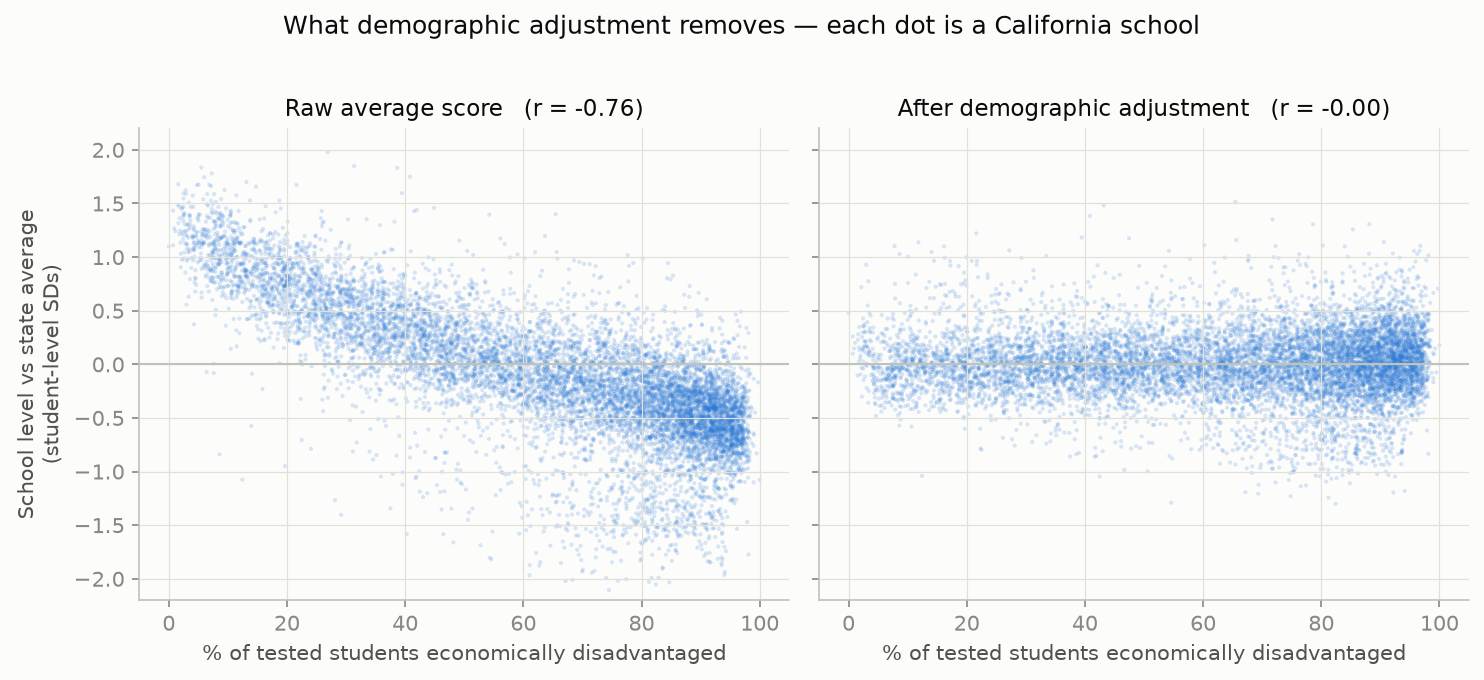
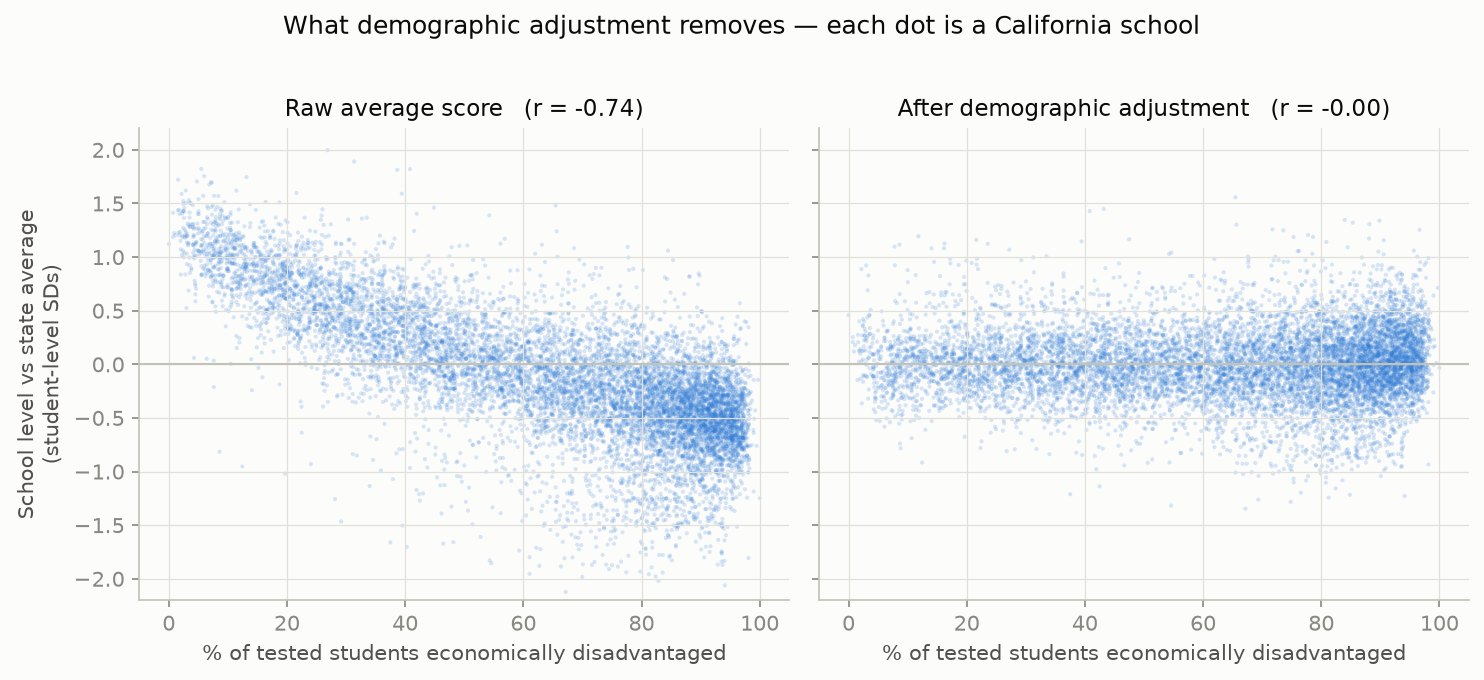
Model: recency-weighted level, rank by lower confidence bound
Level now answers "where is this school now": stage-1 precision weights
decay with a 1.5-year half-life from the school's latest data year
(chosen by holdout — RMSE predicting held-out 2025 means: 0.200
decade-average, 0.168 trend extrapolation, 0.147-0.156 recency-weighted,
0.143 last-year-only). Growth and trend keep the full window.

Percentiles rank the lower bound of the 95% band around the shrunken
adjusted estimate (posterior sd sqrt(lam*V)) and require test data in
the statewide latest year. Lookalike neighbor pool widened to 12 so
pages can show similar schools scoring above and below.

Changed region(s): [[0.093, 0.2779, 0.527, 0.8647], [0.558, 0.3706, 0.9919, 0.7103]]

diff --git a/src/schoolfactors/analysis/model.py b/src/schoolfactors/analysis/model.py
@@ -2,10 +2,17 @@
 
 Stage 1 (per school): precision-weighted regression of standardized score on centered
 year, centered grade, and subject, with level-1 variance fixed to the known sampling
-variance (SEDA-style). Yields per-school OLS estimates + sampling variances for:
-    level  — average standing vs the state (in student SDs), at the school's center
+variance (SEDA-style). Two weightings of the same design:
+    level  — RECENT standing vs the state (in student SDs): precision weights decayed
+             by LEVEL_HALF_LIFE_YEARS from the school's latest data year, intercept at
+             the decayed-weight center (≈ the last one-to-two years of data). Chosen
+             over trend extrapolation by holdout: predicting each school's held-out
+             2025 mean, the decade-average level RMSE is 0.200, linear extrapolation
+             0.168, this estimator 0.147-0.156 vs 0.143 for last-year-only — which
+             would drop schools missing the latest year and is pure noise for small n.
     growth — within-cohort grade-to-grade progression relative to the state
     trend  — change across cohorts/years relative to the state
+             (growth and trend keep the undecayed weights: slopes want the full window)
 
 Stage 2: empirical-Bayes shrinkage of each parameter toward the state mean, with
 between-school variance tau^2 estimated by method of moments. Reliability
@@ -13,7 +20,9 @@ lambda = tau^2/(tau^2 + V) gates display (>= 0.70, SEDA's rule).
 
 Stage 3: demographic adjustment — precision-weighted regression of the OLS estimates
 (never the EB ones: shrunken outcomes bias coefficients) on school covariates;
-residuals are then EB-shrunken for display.
+residuals are then EB-shrunken for display. Rankings sort on the lower bound of the
+95% band around the shrunken residual (posterior sd = sqrt(lambda * V) — the raw se
+would double-count noise already removed by shrinkage).
 """
 
 from __future__ import annotations
@@ -24,6 +33,38 @@ import polars as pl
 MIN_OBS = 6
 MIN_YEARS = 3
 PARAMS = ["level", "growth", "trend"]
+LEVEL_HALF_LIFE_YEARS = 1.5
+
+
+def _solve_wls(y, w, yr, gr, subj):
+    """One WLS solve centered on the given weights.
+
+    Returns (kept column indices, beta, cov, weighted year/grade centers), or None
+    when the normal equations are singular. Collinear columns are dropped
+    (single-grade schools have no growth signal; single-year no trend).
+    """
+    yr_c = yr - np.average(yr, weights=w)
+    gr_c = gr - np.average(gr, weights=w)
+    X = np.column_stack([np.ones(len(y)), yr_c, gr_c, subj])
+    keep = [0]
+    if np.ptp(yr_c) > 0:
+        keep.append(1)
+    if np.ptp(gr_c) > 0:
+        keep.append(2)
+    if np.ptp(subj) > 0:
+        keep.append(3)
+    Xk = X[:, keep]
+    XtW = Xk.T * w
+    try:
+        cov = np.linalg.inv(XtW @ Xk)
+    except np.linalg.LinAlgError:
+        return None
+    beta = cov @ (XtW @ y)
+    centers = (float(np.average(yr, weights=w)), float(np.average(gr, weights=w)))
+    return keep, beta, cov, centers
+
+
+_COEF_NAMES = ["level", "trend", "growth", "subj_gap"]
 
 
 def fit_school_models(panel: pl.DataFrame) -> pl.DataFrame:
@@ -39,39 +80,30 @@ def fit_school_models(panel: pl.DataFrame) -> pl.DataFrame:
         yr = grp["test_year"].to_numpy().astype(float)
         gr = grp["grade"].to_numpy().astype(float)
         subj = (grp["test_id"].to_numpy() == 2).astype(float) - 0.5
-        yr_c = yr - np.average(yr, weights=w)
-        gr_c = gr - np.average(gr, weights=w)
 
-        X = np.column_stack([np.ones(n_obs), yr_c, gr_c, subj])
-        # Drop collinear columns (single-grade schools have no growth signal)
-        keep = [0]
-        if np.ptp(yr_c) > 0:
-            keep.append(1)
-        if np.ptp(gr_c) > 0:
-            keep.append(2)
-        if np.ptp(subj) > 0:
-            keep.append(3)
-        Xk = X[:, keep]
-
-        XtW = Xk.T * w
-        try:
-            cov = np.linalg.inv(XtW @ Xk)
-        except np.linalg.LinAlgError:
+        full = _solve_wls(y, w, yr, gr, subj)
+        w_recent = w * np.power(0.5, (yr.max() - yr) / LEVEL_HALF_LIFE_YEARS)
+        recent = _solve_wls(y, w_recent, yr, gr, subj)
+        if full is None or recent is None:
             continue
-        beta = cov @ (XtW @ y)
 
         row: dict = {
             "cds": cds,
             "n_obs": n_obs,
             "n_years": len(years),
-            "mid_year": float(np.average(yr, weights=w)),
-            "mid_grade": float(np.average(gr, weights=w)),
+            "mid_year": recent[3][0],
+            "mid_grade": recent[3][1],
+            "last_year": int(yr.max()),
             "total_scores": int(grp["n"].sum()),
         }
-        names = ["level", "trend", "growth", "subj_gap"]
-        for j, col in enumerate(keep):
-            row[names[col]] = float(beta[j])
-            row[f"{names[col]}_var"] = float(cov[j, j])
+        # Slopes from the full-window fit; level and the subject gap that splits it
+        # from the recency-weighted fit.
+        for fit, wanted in ((full, ("trend", "growth")), (recent, ("level", "subj_gap"))):
+            keep, beta, cov, _ = fit
+            for j, col in enumerate(keep):
+                if _COEF_NAMES[col] in wanted:
+                    row[_COEF_NAMES[col]] = float(beta[j])
+                    row[f"{_COEF_NAMES[col]}_var"] = float(cov[j, j])
         out.append(row)
     return pl.DataFrame(out)
 
@@ -151,7 +183,11 @@ def adjust(df: pl.DataFrame, param: str, covariates: list[str] | None = None) ->
     add = est.select("cds").with_columns(
         pl.Series(f"{param}_adj", resid),
         pl.Series(f"{param}_adj_eb", lam * resid),
-        pl.Series(f"{param}_adj_se", np.sqrt(v + 0 * resid)),
+        pl.Series(f"{param}_adj_se", np.sqrt(v)),
+        # Lower bound of the 95% band around the shrunken residual. Posterior sd is
+        # sqrt(lam * v): shrinkage already discounted the noise, so the raw se would
+        # penalize small schools twice.
+        pl.Series(f"{param}_adj_lcb", lam * resid - 1.96 * np.sqrt(lam * v)),
         pl.Series(f"{param}_adj_reliability", lam),
     )
     coef = pl.DataFrame({"term": ["intercept", *covariates], f"gamma_{param}": gamma})

diff --git a/src/schoolfactors/analysis/export.py b/src/schoolfactors/analysis/export.py
@@ -23,6 +23,7 @@ SITE_DATA = REPO_ROOT / "site" / "static" / "data"
 EFFECT_COLS = [
     "total_scores",
     "n_years",
+    "last_year",
     "level_eb",
     "level_se",
     "growth_eb",
@@ -30,7 +31,9 @@ EFFECT_COLS = [
     "trend_eb",
     "trend_se",
     "level_adj_eb",
+    "level_adj_lcb",
     "growth_adj_eb",
+    "growth_adj_lcb",
     "level_reliability",
     "growth_reliability",
     "share_econ_dis",
@@ -473,7 +476,7 @@ def run_export() -> None:
 
             # Per-subject levels via the fitted subject gap (math - ela):
             # ela = level - gap/2, math = level + gap/2, for raw and adjusted alike.
-            def _split(level):
+            def _split(level, full_eff=full_eff):
                 gap = full_eff.get("subj_gap")
                 if level is None:
                     return None, None
@@ -537,6 +540,7 @@ def run_export() -> None:
                     "flags": flags_map.get(cds) if kind == "schools" else None,
                     "level_eb": eff.get("level_eb"),
                     "level_adj_eb": eff.get("level_adj_eb"),
+                    "adj_lcb": eff.get("level_adj_lcb"),
                     "raw_ela": raw_ela,
                     "raw_math": raw_math,
                     "adj_ela": adj_ela,
@@ -545,9 +549,11 @@ def run_export() -> None:
                     "pass_math": g1["pass_math"],
                     "last_year": last_year,
                     "growth_adj_eb": eff.get("growth_adj_eb"),
+                    "growth_lcb": eff.get("growth_adj_lcb"),
                     # Stripped before writing — used only for percentile gating.
                     "_lrel": eff.get("level_reliability"),
                     "_grel": eff.get("growth_reliability"),
+                    "_ly": eff.get("last_year"),
                     # Full-population FRPM share (all enrolled students), falling
                     # back to the tested-population share where FRPM is missing.
                     "econ": frpm_pop_share.get(cds, eff.get("share_econ_dis")),
@@ -567,6 +573,7 @@ def run_export() -> None:
             "name": e["name"],
             "level_eb": e["level_eb"],
             "level_adj_eb": e["level_adj_eb"],
+            "adj_lcb": e["adj_lcb"],
             "growth_adj_eb": e["growth_adj_eb"],
             "total_scores": e["total_scores"],
         }
@@ -608,35 +615,43 @@ def run_export() -> None:
 
     # Percentile presentation of the adjusted estimates (in the spirit of the
     # Urban Institute's demographically adjusted rankings): midrank percentile
-    # among entities of the same kind, gated on reliability >= 0.70 (SEDA's
-    # rule — an estimate that is mostly noise gets no percentile). The
-    # underlying student-SD values stay in the payloads; this is display only.
+    # among entities of the same kind, computed on the LOWER bound of the 95%
+    # band around the shrunken residual — an unconfident high estimate ranks
+    # below a confident slightly-lower one. Gated on reliability >= 0.70
+    # (SEDA's rule — an estimate that is mostly noise gets no percentile) and
+    # on having modeled data in the statewide latest year: the level is
+    # recency-weighted, so for a school whose data stopped years ago it
+    # describes a school that may no longer exist in that form. The underlying
+    # student-SD values stay in the payloads; this is display only.
     for kind_ in ("school", "district", "county"):
+        latest = max(
+            (e["_ly"] for e in index if e["kind"] == kind_ and e.get("_ly")),
+            default=None,
+        )
         for src, rel_key, out in (
-            ("level_adj_eb", "_lrel", "adj_pct"),
-            ("growth_adj_eb", "_grel", "growth_pct"),
+            ("adj_lcb", "_lrel", "adj_pct"),
+            ("growth_lcb", "_grel", "growth_pct"),
         ):
-            pool = sorted(
-                e[src]
-                for e in index
-                if e["kind"] == kind_
-                and e.get(src) is not None
-                and (e.get(rel_key) or 0) >= 0.7
-            )
-            if len(pool) < 20:
-                continue
-            for e in index:
-                if (
+            def eligible(e, kind_=kind_, src=src, rel_key=rel_key, latest=latest):
+                return (
                     e["kind"] == kind_
                     and e.get(src) is not None
                     and (e.get(rel_key) or 0) >= 0.7
-                ):
+                    and e.get("_ly") == latest
+                )
+
+            pool = sorted(e[src] for e in index if eligible(e))
+            if len(pool) < 20:
+                continue
+            for e in index:
+                if eligible(e):
                     lo = bisect.bisect_left(pool, e[src])
                     hi = bisect.bisect_right(pool, e[src])
                     e[out] = min(99, max(1, round(100 * (lo + hi) / 2 / len(pool))))
     for e in index:
         e.pop("_lrel", None)
         e.pop("_grel", None)
+        e.pop("_ly", None)
 
     (SITE_DATA / "index.json").write_text(json.dumps(index))
     print(f"  wrote {written['schools']:,} school pages, {written['districts']:,} district pages")
@@ -647,9 +662,9 @@ def run_export() -> None:
         "n_districts_modeled": len(districts),
         "n_counties_modeled": len(counties),
         "years": [2015, 2016, 2017, 2018, 2019, 2022, 2023, 2024, 2025],
-        "corr_raw_level_econ": -0.76,
-        "corr_adjusted_level_econ": -0.001,
-        "falsification_growth_vs_level": 0.007,
+        "corr_raw_level_econ": -0.74,
+        "corr_adjusted_level_econ": -0.003,
+        "falsification_growth_vs_level": -0.012,
     }
     (SITE_DATA / "summary.json").write_text(json.dumps(summary, indent=1))
     print("  summary.json written")

diff --git a/tests/test_model.py b/tests/test_model.py
@@ -1,0 +1,58 @@
+"""Stage-1 recency weighting and stage-3 confidence bounds."""
+
+import numpy as np
+import polars as pl
+import pytest
+
+from schoolfactors.analysis import model
+
+
+def _panel_one_school(z_by_year: dict[int, float], cds: str = "01000010000001",
+                      n: int = 400) -> pl.DataFrame:
+    rows = []
+    for year, z in z_by_year.items():
+        for test_id in (1, 2):
+            rows.append({"cds": cds, "test_year": year, "grade": 5, "test_id": test_id,
+                         "z": z, "var_z": 1.0 / n, "n": n})
+    return pl.DataFrame(rows)
+
+
+def test_level_is_recency_weighted_not_decade_average():
+    # Steady decline from +1.0 to 0.0: the all-years average is ~0.5, but the
+    # displayed level should sit near where the school scores now.
+    years = {2015 + i: 1.0 - i * 0.125 for i in range(9)}  # 2023 -> 0.0
+    eff = model.fit_school_models(_panel_one_school(years))
+    assert len(eff) == 1
+    level = eff["level"][0]
+    assert level < 0.25, f"level {level:+.3f} still looks like a decade average"
+    assert eff["last_year"][0] == 2023
+    # Trend keeps the full window: the true slope is -0.125/yr.
+    assert eff["trend"][0] == pytest.approx(-0.125, abs=0.01)
+
+
+def test_flat_school_level_unchanged_by_weighting():
+    years = {2015 + i: 0.4 for i in range(9)}
+    eff = model.fit_school_models(_panel_one_school(years))
+    assert eff["level"][0] == pytest.approx(0.4, abs=1e-6)
+
+
+def test_adjust_lcb_matches_posterior_band():
+    rng = np.random.default_rng(0)
+    n = 200
+    x = rng.uniform(0, 1, n)
+    beta_true = -0.5
+    lvl = beta_true * x + rng.normal(0, 0.2, n)
+    df = pl.DataFrame({
+        "cds": [f"{i:014d}" for i in range(n)],
+        "level": lvl,
+        "level_var": np.full(n, 0.01),
+        "cov": x,
+    })
+    out, _coef, _tau2 = model.adjust(df, "level", ["cov"])
+    eb = out["level_adj_eb"].to_numpy()
+    lcb = out["level_adj_lcb"].to_numpy()
+    lam = out["level_adj_reliability"].to_numpy()
+    se = out["level_adj_se"].to_numpy()
+    np.testing.assert_allclose(lcb, eb - 1.96 * np.sqrt(lam) * se, atol=1e-10)
+    # The bound is strictly below the estimate and the band is nondegenerate.
+    assert np.all(lcb < eb)

diff --git a/src/schoolfactors/analysis/neighbors.py b/src/schoolfactors/analysis/neighbors.py
@@ -28,6 +28,9 @@ LOOKALIKE_FEATURES = [
     "log_tested",
 ]
 N_NEIGHBORS = 6
+# Lookalikes get a deeper pool so the page can show similar schools performing
+# both better and worse than the subject school.
+N_LOOKALIKE = 12
 MAX_NEARBY_MILES = 25.0
 
 
@@ -99,14 +102,14 @@ def build_neighbors(effects: pl.DataFrame) -> dict[str, dict]:
         demo = grp.filter(
             pl.all_horizontal([pl.col(c).is_not_null() for c in feat_cols])
         )
-        if len(demo) > N_NEIGHBORS:
+        if len(demo) > N_LOOKALIKE:
             X = np.column_stack([demo[c].to_numpy() for c in feat_cols])
             mu = X.mean(axis=0)
             sd = X.std(axis=0)
             sd[sd == 0] = 1
             Xz = (X - mu) / sd
             tree = cKDTree(Xz)
-            dists, idxs = tree.query(Xz, k=N_NEIGHBORS + 1)
+            dists, idxs = tree.query(Xz, k=N_LOOKALIKE + 1)
             cds_arr = demo["cds"].to_list()
             for i, cds in enumerate(cds_arr):
                 for d, j in zip(dists[i][1:], idxs[i][1:]):
